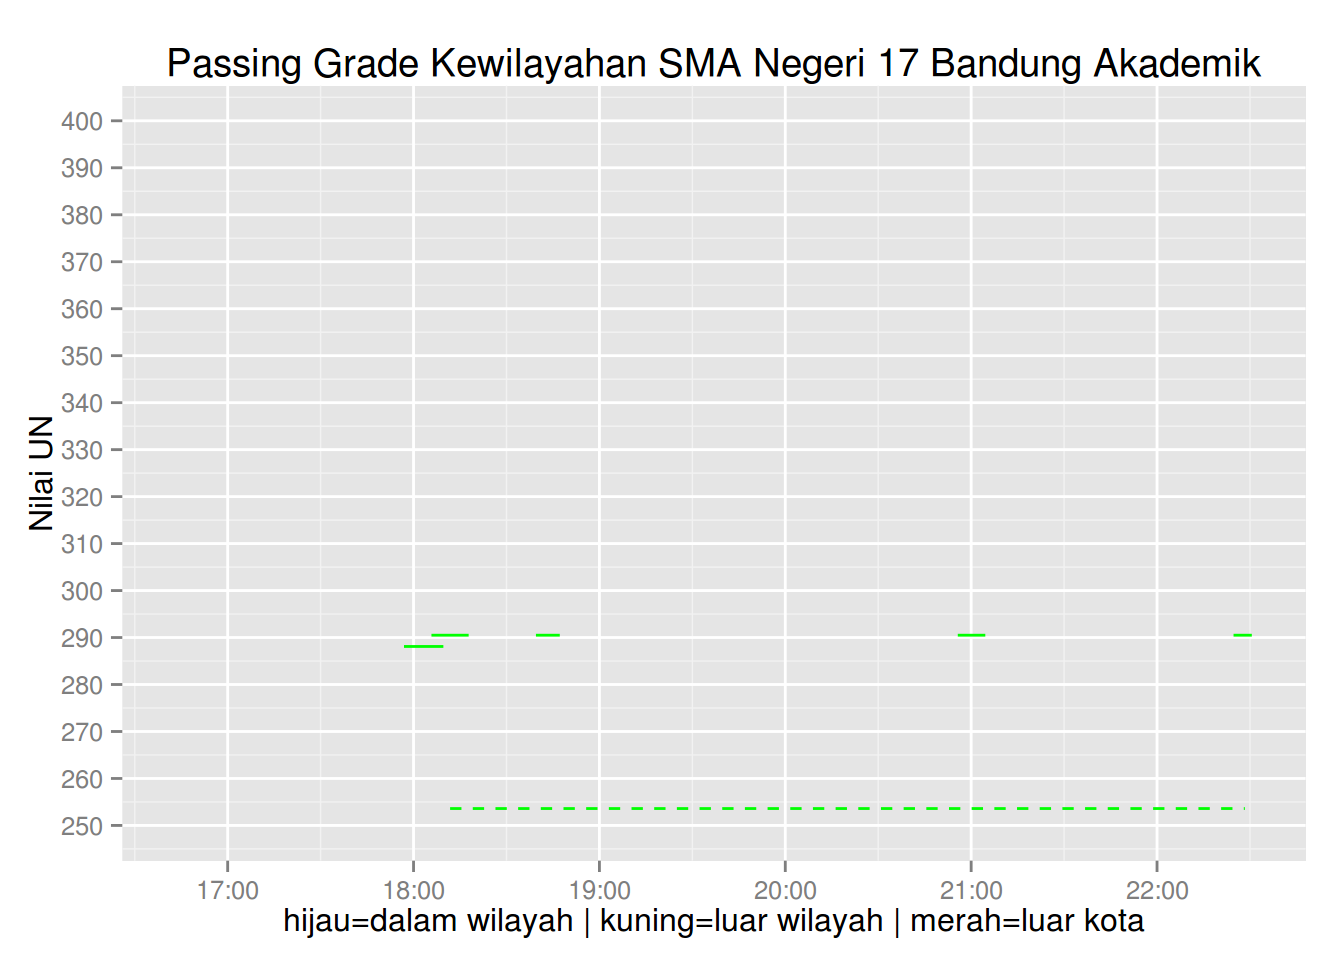
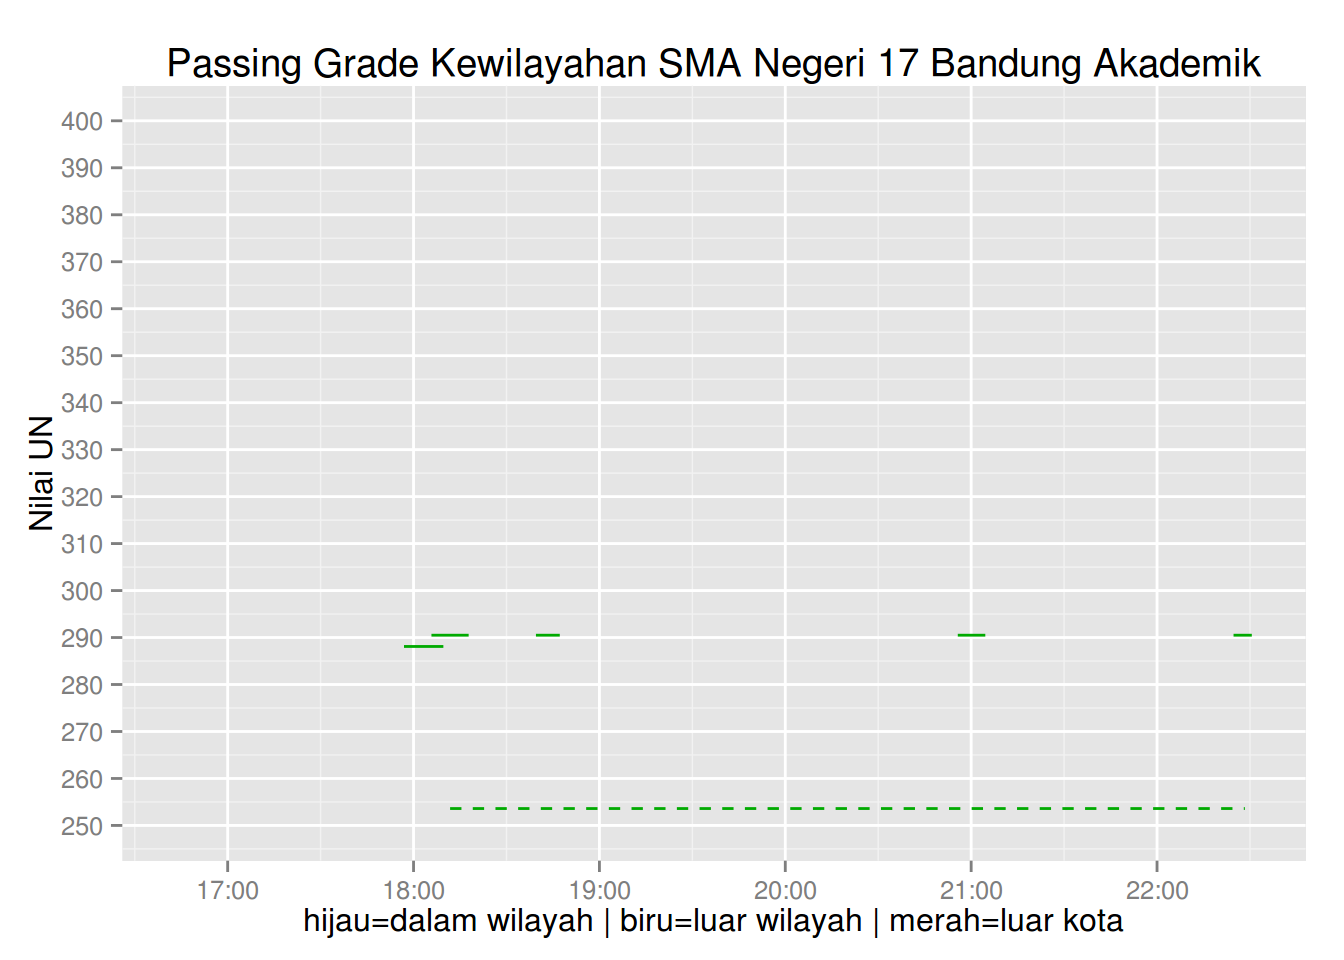
coloring

Changed region(s): [[0.1875, 0.9375, 0.8438, 1.0], [0.3125, 0.6562, 0.3438, 0.6875]]

diff --git a/filtered-ppdb-sma-kotabandung-2015.html b/filtered-ppdb-sma-kotabandung-2015.html
@@ -141,18 +141,18 @@ plot_pg &lt;- function(option_id, name) {
   df &lt;- df[!is.na(df$pg_dw),]
   plot &lt;- ggplot(df, aes(x=snapshottime, y=pg_dw)) +
     scale_y_continuous(name=&#39;Nilai UN&#39;, limits=c(250, 400), breaks=seq(150, 400, by=10)) +
-    scale_x_datetime(name=&#39;hijau=dalam wilayah | kuning=luar wilayah | merah=luar kota&#39;) +
-    geom_errorbar(position=position_jitter(height=0), color=&#39;green&#39;,
+    scale_x_datetime(name=&#39;hijau=dalam wilayah | biru=luar wilayah | merah=luar kota&#39;) +
+    geom_errorbar(position=position_jitter(height=0), color=&#39;#00aa00&#39;,
                  aes(ymin=low_dw, ymax=high_dw)) +
-    geom_line(aes(y=pg_dw), color=&#39;green&#39;, size=1.5, alpha=0.5, position=position_jitter(height=1)) +
-    geom_line(aes(y=mean_dw), color=&#39;green&#39;, linetype=&#39;dashed&#39;) +
-    geom_errorbar(position=position_jitter(height=0), color=&#39;yellow&#39;,
+    geom_line(aes(y=pg_dw), color=&#39;#00aa00&#39;, size=1.5, alpha=0.7, position=position_jitter(height=1)) +
+    geom_line(aes(y=mean_dw), color=&#39;#00aa00&#39;, linetype=&#39;dashed&#39;) +
+    geom_errorbar(position=position_jitter(height=0), color=&#39;#1111ee&#39;,
                  aes(ymin=low_lw, ymax=high_lw)) +
-    geom_line(aes(y=pg_lw), color=&#39;yellow&#39;, size=1.5, alpha=0.5, position=position_jitter(height=1)) +
-    geom_line(aes(y=mean_lw), color=&#39;yellow&#39;, linetype=&#39;dashed&#39;) +
+    geom_line(aes(y=pg_lw), color=&#39;#1111ee&#39;, size=1.5, alpha=0.4, position=position_jitter(height=1)) +
+    geom_line(aes(y=mean_lw), color=&#39;#1111ee&#39;, linetype=&#39;dashed&#39;) +
     geom_errorbar(position=position_jitter(height=0), color=&#39;red&#39;,
                  aes(ymin=low_lk, ymax=high_lk)) +
-    geom_line(aes(y=pg_lk), color=&#39;red&#39;, size=1.5, alpha=0.5, position=position_jitter(height=1)) +
+    geom_line(aes(y=pg_lk), color=&#39;red&#39;, size=1.5, alpha=0.4, position=position_jitter(height=1)) +
     geom_line(aes(y=mean_lk), color=&#39;red&#39;, linetype=&#39;dashed&#39;) +
     ggtitle(paste(&#39;Passing Grade Kewilayahan&#39;, name))
   return(plot)
